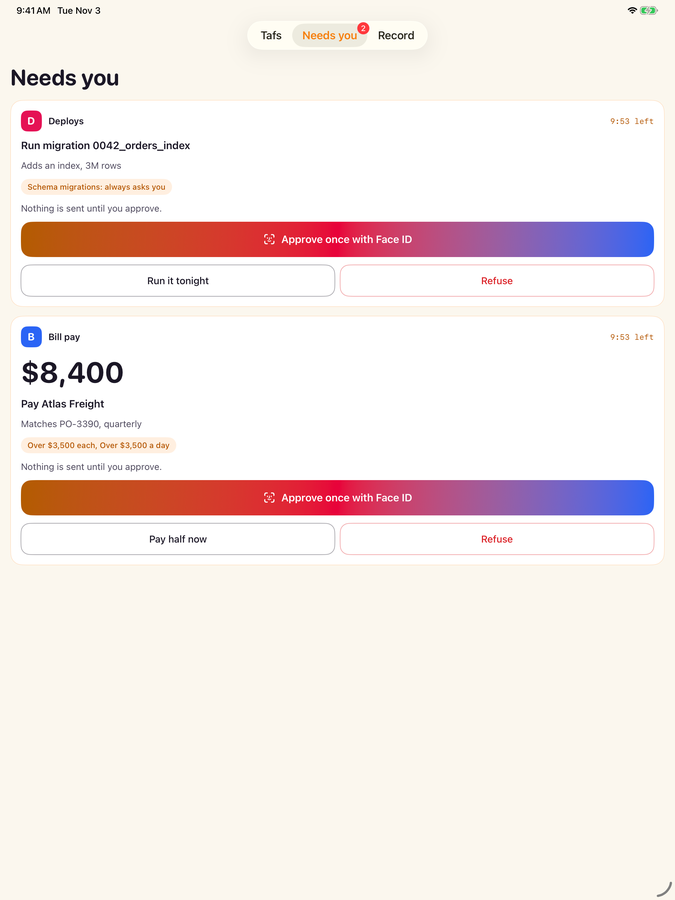
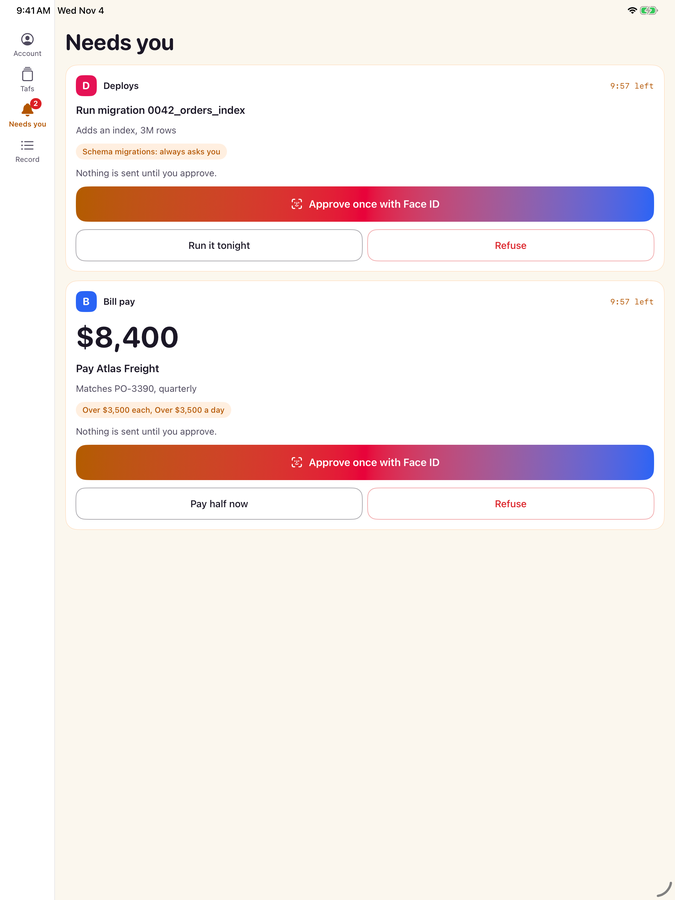
README: the v23 screens from CI, and the changelog's docs line
iPhone and iPad screenshots from CI's v23 run (Tafs with the bar,
Record by taf, Activity, Setup, Starts when, Results go to, Setup in
dark, iPad Setup beside the list), replacing the dial's. The Android
row shows the taf screen's own screenshots. docs/taf-screen.md
replaces docs/dial.md in the changelog.

diff --git a/README.md b/README.md
@@ -15,12 +15,15 @@ through KIFF's gateway, which checks the Card before any call reaches a tool.
 
 <p>
   <img src="docs/screenshots/welcome.png" width="220" alt="Welcome: They taf. You kiff.">
-  <img src="docs/screenshots/tafs.png" width="220" alt="Tafs: three working, two need you">
+  <img src="docs/screenshots/tafs.png" width="220" alt="Tafs: three working, two need you, with the bar: Account, Tafs, Needs you, Record">
   <img src="docs/screenshots/needs-you.png" width="220" alt="Needs you: held actions with Approve once and Refuse">
-  <img src="docs/screenshots/record.png" width="220" alt="Record: everything the tafs did, newest first">
-  <img src="docs/screenshots/taf.png" width="220" alt="A taf: its job, its runs and its activity">
+  <img src="docs/screenshots/record.png" width="220" alt="Record: a chip for each taf above the filter by kind, each entry starting with its taf">
+  <img src="docs/screenshots/taf.png" width="220" alt="A taf's Activity: what's left today, All, Done, Held and Refused, then its work by day">
   <img src="docs/screenshots/chat.png" width="220" alt="Chat: ask a taf what it did, or tell it what to do differently">
-  <img src="docs/screenshots/dial.png" width="220" alt="A taf's dial on iPhone: When, What and Where around its Why, Refund double charges">
+  <img src="docs/screenshots/setup.png" width="220" alt="A taf's Setup: the job, Starts when, Results go to and what it remembers">
+  <img src="docs/screenshots/starts-when.png" width="220" alt="Starts when: its schedule with − and +, Skip it or Run after, an app event to approve, one listening, and its doors">
+  <img src="docs/screenshots/results-go-to.png" width="220" alt="Results go to: Reply to the sender, Alert our phones and Email me, then a place in a connected app">
+  <img src="docs/screenshots/setup-dark.png" width="220" alt="Setup in dark">
   <img src="docs/screenshots/new-taf.png" width="220" alt="Starting a new taf">
 </p>
 
@@ -29,19 +32,19 @@ On iPad:
 <p>
   <img src="docs/screenshots/ipad-welcome.png" width="340" alt="Welcome on iPad">
   <img src="docs/screenshots/ipad-needs-you.png" width="340" alt="Needs you on iPad: held actions with Approve once and Refuse">
-  <img src="docs/screenshots/ipad-dial.png" width="340" alt="The dial on iPad, beside the list of tafs, with its remote and today's work">
+  <img src="docs/screenshots/ipad-setup.png" width="340" alt="A taf's Setup on iPad, beside the list of tafs, with the bar as a rail on the left">
 </p>
 
-On Android: the taf's dial (When, What and Where around its Why), a stop with its
-size and a change waiting to go live, Coach's card for a dial it drafted, and a
-taf's page with its chat:
+On Android: the bar, a taf's Setup and its Starts when, Results go to, Activity and Record
+by taf in dark:
 
 <p>
-  <img src="docs/screenshots/android/dial-overview.png" width="180" alt="The dial: the Why on the face, When, What and Where around it, an email door with a knock waiting and a closed Slack door">
-  <img src="docs/screenshots/android/dial-stop-size.png" width="180" alt="A stop chosen: Weekdays at 09:00, its size, and Make 1 change live">
-  <img src="docs/screenshots/android/dial-coach-card.png" width="180" alt="Coach's card: the dial it drafted, by connection, with one confirmation">
-  <img src="docs/screenshots/android/coach-card.png" width="180" alt="Coach: the header, the plan line, an answered approval and the rules card">
-  <img src="docs/screenshots/android/taf-page.png" width="180" alt="A taf's page: one header row, the tabs and the Card's line, then the chat">
+  <img src="docs/screenshots/android/home-bar.png" width="180" alt="Home with the bar: Account, Tafs, Needs you, Record">
+  <img src="docs/screenshots/android/taf-setup.png" width="180" alt="A taf's Setup">
+  <img src="docs/screenshots/android/taf-starts-when.png" width="180" alt="Setup › Starts when">
+  <img src="docs/screenshots/android/taf-results-dark.png" width="180" alt="Setup › Results go to, in dark">
+  <img src="docs/screenshots/android/taf-activity-dark.png" width="180" alt="A taf's Activity, in dark">
+  <img src="docs/screenshots/android/record-by-taf-dark.png" width="180" alt="Record by taf, in dark">
 </p>
 
 Screenshots come from CI, with sample data. On iOS, a run that changes a screen

diff --git a/CHANGELOG.md b/CHANGELOG.md
@@ -24,6 +24,8 @@ version headings refer to releases, not merely to merged pull requests.
 
 ### Added
 
+- **Docs:** `docs/taf-screen.md`, the app's screens for the person using them (the bar, a taf's four tabs, Setup › Starts when and Results go to, Account › Alerts, dark), replaces `docs/dial.md`. The README shows the v23 screens from CI on iPhone, iPad and Android.
+
 - **Docs:** `docs/connect-apps.md`, Connect apps for the person running tafs; `docs/dial.md` covers app events' approval, ⏻ off for a taf that works from its chat, and labels cut with "…".
 
 - **Docs:** `docs/dial.md`, the dial for the person using it; the README covers Android, the dial, Connect apps, Did this happen? and the Slack door, with the Android screenshots.
